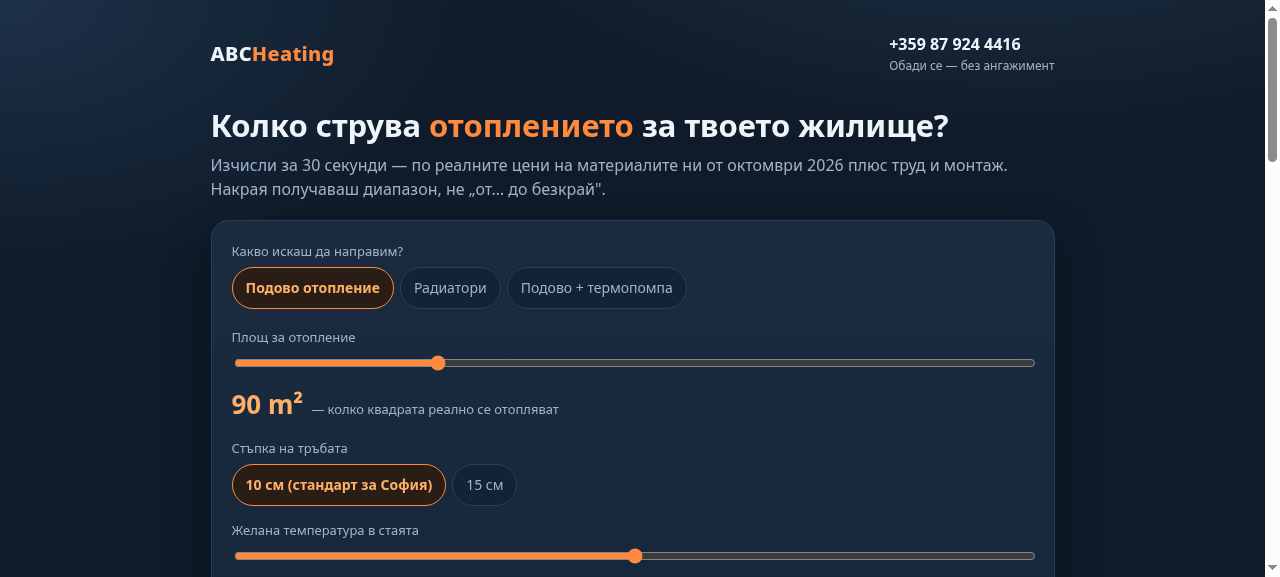
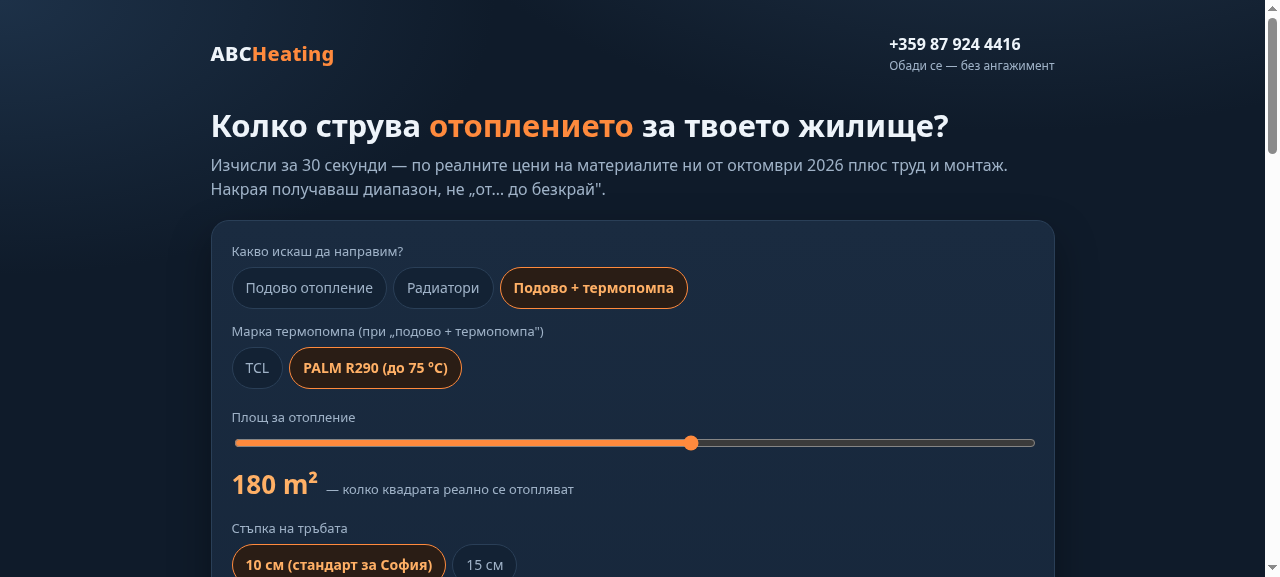
PALM R290 в калкулатора: EXW + 40% надценка, избор по мощност при -7 °C

Changed region(s): [[0.1562, 0.4367, 0.8125, 1.0], [0.9688, 0.2496, 1.0, 0.2808]]

diff --git a/index.html b/index.html
@@ -89,6 +89,14 @@ footer a{color:var(--acc2);text-decoration:none}
       <input type="radio" name="t" id="t3" value="hp"><label for="t3">Подово + термопомпа</label>
     </div>
 
+    <div style="margin-top:12px">
+      <label class="blk">Марка термопомпа (при „подово + термопомпа")</label>
+      <div class="seg">
+        <input type="radio" name="b" id="b1" value="tcl" checked><label for="b1">TCL</label>
+        <input type="radio" name="b" id="b2" value="palm"><label for="b2">PALM R290 (до 75 °C)</label>
+      </div>
+    </div>
+
     <div style="margin-top:18px">
       <label class="blk" for="area">Площ за отопление</label>
       <input type="range" id="area" min="20" max="300" step="5" value="90">
@@ -186,6 +194,15 @@ const PRICE = {
   rad:   { eurPerW: 0.0285, oversize: 1.15, pipesPerM2: 8.00, laborPerM2: 15.00 },
   heatPerM2: 80,
   hp: [ {kw: 8, eur: 2304}, {kw: 10, eur: 2454}, {kw: 12, eur: 2760}, {kw: 16, eur: 2916} ],
+  // PALM (R290) — EXW цени от оферта 2026; продажна = EXW × надценка × курс + ДДС
+  palm: [ {m:'PAL20-HTM', kw:8.2,  exw:1380},
+          {m:'PAL40-HTM', kw:12.5, exw:1450},
+          {m:'PAL60-HTM', kw:15.2, exw:1780},
+          {m:'PAL70-HTM', kw:19.3, exw:2150},
+          {m:'PAL80-HTM', kw:22.0, exw:2260} ],
+  palmMarkup: 1.40,        // надценка върху EXW
+  usdEur: 0.8915,          // курс USD→EUR, 23.10.2026
+  palmDerate: 0.70,        // дял от мощността при -7 °C спрямо A7/W35
   insFactor: { good: 0.85, mid: 1.0, bad: 1.20 },
   winFactor: 1.06,
   spread: 0.12
@@ -273,10 +290,20 @@ function calc() {
     total += panels + pipes + labor;
   }
   if (type === 'hp') {
-    const kw = needW / 1000;
-    const pump = PRICE.hp.find(p => p.kw >= kw) || PRICE.hp[PRICE.hp.length - 1];
-    items.push(['Термопомпа TCL ' + pump.kw + ' kW', pump.eur]);
-    total += pump.eur;
+    const brand = document.querySelector('input[name=b]:checked')?.value || 'tcl';
+    if (brand === 'palm') {
+      const req = needW / 1000 / PRICE.palmDerate;          // нужна мощност при A7/W35
+      const mdl = PRICE.palm.find(p => p.kw >= req) || PRICE.palm[PRICE.palm.length - 1];
+      const eurP = mdl.exw * PRICE.palmMarkup * PRICE.usdEur * PRICE.vat;
+      items.push(['Термопомпа PALM ' + mdl.m + ' · ' + mdl.kw + ' kW при A7/W35 (R290, A+++,' +
+                  ' при -7 °C ≈ ' + (mdl.kw * PRICE.palmDerate).toFixed(1) + ' kW)', eurP]);
+      total += eurP;
+    } else {
+      const kw = needW / 1000;
+      const pump = PRICE.hp.find(p => p.kw >= kw) || PRICE.hp[PRICE.hp.length - 1];
+      items.push(['Термопомпа TCL ' + pump.kw + ' kW', pump.eur]);
+      total += pump.eur;
+    }
   }
 
   animateTotal(total);
